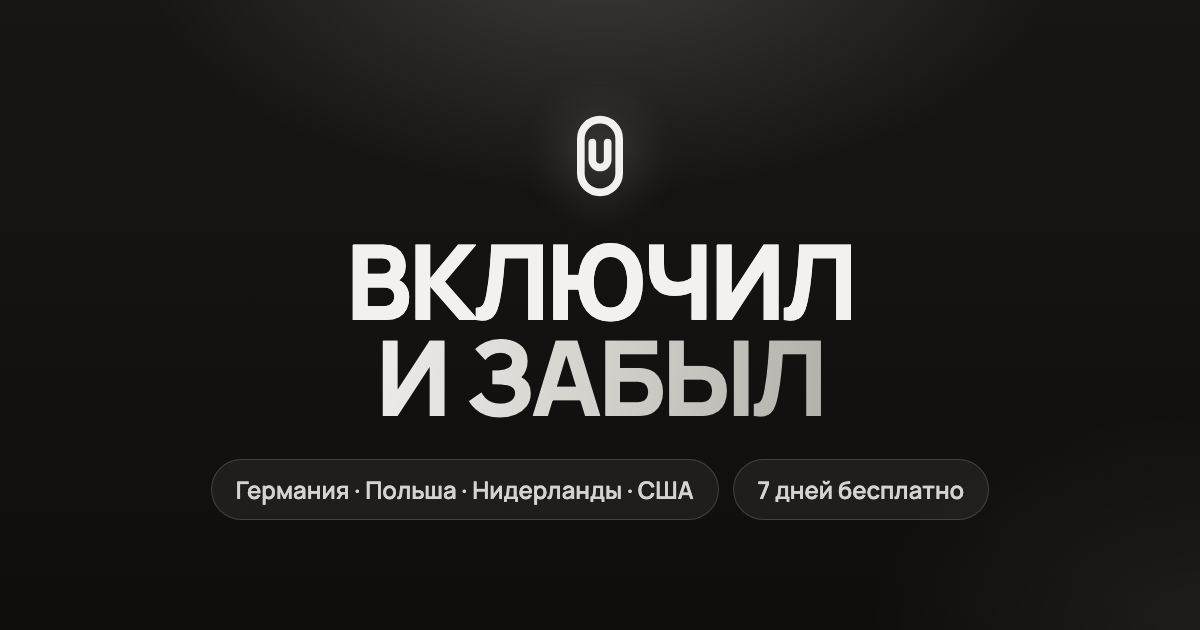
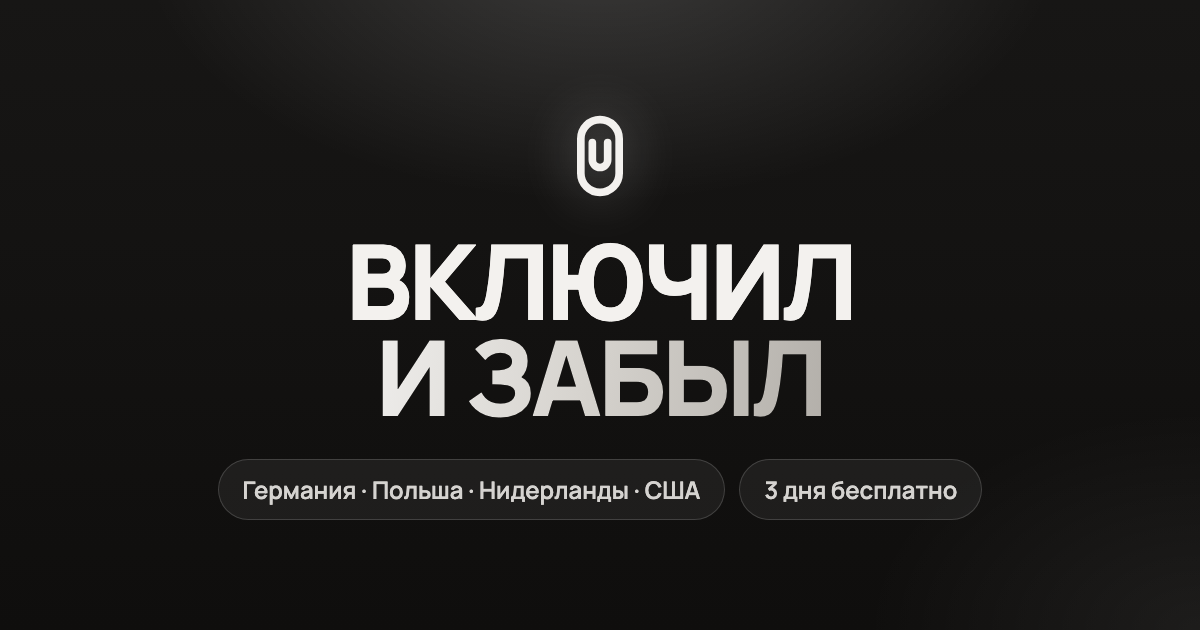
feat: пробник снова на 3 дня — в боте, зеркале, на сайте и визитке
За неделю пробника платили реже: 8 из 62 (13%) против 12 из 55 (22%) при
трёх днях, и покупали всё равно в последние дни. Длина задаётся одним
числом в тарифах бота и сайта, тексты берут её оттуда. На сайте у пробника
теперь, как и в боте, 2 устройства, а не 1.

Цифра нарисована и на картинках: баннеры зеркала «Страны на выбор» и
«Личный кабинет», визитка unlock-project.site и её превью. На баннерах
переписана только сама плашка тем же шрифтом (scripts/rewrite_banner_chip.py),
остальная картинка не тронута.

Changed region(s): [[0.185, 0.754, 0.5858, 0.8143], [0.6167, 0.754, 0.8017, 0.8143]]

diff --git a/landing/index.html b/landing/index.html
@@ -4,11 +4,11 @@
 <meta charset="utf-8">
 <meta name="viewport" content="width=device-width, initial-scale=1, viewport-fit=cover">
 <title>UnLock VPN — включил и забыл</title>
-<meta name="description" content="UnLock VPN: серверы в Германии, Польше, Нидерландах и США. Первые 7 дней бесплатно, дальше — от 149 ₽ в месяц.">
+<meta name="description" content="UnLock VPN: серверы в Германии, Польше, Нидерландах и США. Первые 3 дня бесплатно, дальше — от 149 ₽ в месяц.">
 <meta name="theme-color" content="#121110">
 <meta property="og:type" content="website">
 <meta property="og:title" content="UnLock VPN — включил и забыл">
-<meta property="og:description" content="Серверы в Германии, Польше, Нидерландах и США. Первые 7 дней бесплатно.">
+<meta property="og:description" content="Серверы в Германии, Польше, Нидерландах и США. Первые 3 дня бесплатно.">
 <meta property="og:url" content="https://unlock-project.site/">
 <meta property="og:image" content="https://unlock-project.site/og.png">
 <link rel="canonical" href="https://unlock-project.site/">
@@ -460,7 +460,7 @@ img, svg { display: block; }
 <main>
   <section class="hero" aria-labelledby="hero-title">
     <div>
-      <span class="pill eyebrow reveal" style="--i:1"><span class="eyebrow__dot" aria-hidden="true"></span>Первые 7 дней — бесплатно</span>
+      <span class="pill eyebrow reveal" style="--i:1"><span class="eyebrow__dot" aria-hidden="true"></span>Первые 3 дня — бесплатно</span>
       <h1 class="headline" id="hero-title">
         <span class="reveal" style="--i:2">Включил</span>
         <span class="reveal gradient-text" style="--i:3">и забыл</span>
@@ -500,7 +500,7 @@ img, svg { display: block; }
           <li><span>Приложение</span><b>iOS · Android · Windows · macOS</b></li>
         </ul>
       </div>
-      <span class="pill badge"><b>7 дней</b> бесплатно</span>
+      <span class="pill badge"><b>3 дня</b> бесплатно</span>
     </div>
   </section>
 

diff --git a/web/src/lib/tariffs.ts b/web/src/lib/tariffs.ts
@@ -28,13 +28,13 @@ export const TARIFFS: Record<string, Tariff> = {
     code: "trial",
     title: "Пробник",
     tier: "trial",
-    durationDays: 7,
+    durationDays: 3,
     priceRub: 0,
     cryptoAmount: "0",
     trafficGb: 10,
     trafficResetsMonthly: false,
-    deviceLimit: 1,
-    description: "Пробный доступ: 7 дней, 10 ГБ",
+    deviceLimit: 2,
+    description: "Пробный доступ: 3 дня, 10 ГБ",
     sortOrder: 0,
   },
   standard_1m: {

diff --git a/landing/og-card.html b/landing/og-card.html
@@ -59,7 +59,7 @@ h1 span {
   <h1>Включил<span>и забыл</span></h1>
   <div class="chips">
     <span class="chip">Германия · Польша · Нидерланды · США</span>
-    <span class="chip">7 дней бесплатно</span>
+    <span class="chip">3 дня бесплатно</span>
   </div>
 </div>
 </body>

diff --git a/scripts/rewrite_banner_chip.py b/scripts/rewrite_banner_chip.py
@@ -1,0 +1,159 @@
+"""Переписать надпись на плашке баннера, не трогая остальное (нужен Chrome на Mac).
+
+Цифры на баннерах зеркала (срок пробника, ГБ) нарисованы в самой картинке, а
+исходников у картинок нет. 22.09.2026 так «7 дней» вернули в «3 дня».
+
+    .venv/bin/python scripts/rewrite_banner_chip.py '{"src": "assets/mirror/banner_cabinet.png",
+        "chip": [645, 404, 912, 448], "old": "7 дней бесплатно", "new": "3 дня бесплатно",
+        "families": ["system-ui"], "weights": [650, 700], "sizes": [25.5, 26, 26.5],
+        "dys": [-4, -3, -2, -1]}'
+
+chip — область поиска текста внутри плашки (x0, y0, x1, y1). Результат —
+<имя>_new.png рядом со скриптом во временной папке; проверьте глазами и
+скопируйте на место. Для плашек зеркала подходит system-ui 650–700, ~26 px.
+
+1. Стираем старый текст внутри плашки: каждая строка плашки заполняется
+   линейной интерполяцией между её цветом слева и справа от текста — фон
+   плашки плавный, так рамка и градиент остаются нетронутыми.
+2. Подбираем шрифт/размер/сдвиг: рисуем в Chrome СТАРЫЙ текст на стёртой
+   плашке и сравниваем с оригиналом по пикселям.
+3. Тем же набором параметров рисуем новый текст.
+"""
+
+import json
+import subprocess
+import sys
+import tempfile
+from pathlib import Path
+
+from PIL import Image, ImageChops, ImageStat
+
+HERE = Path(tempfile.gettempdir()) / "rewrite_banner_chip"
+HERE.mkdir(exist_ok=True)
+CHROME = "/Applications/Google Chrome.app/Contents/MacOS/Google Chrome"
+W, H = 1200, 630
+
+
+def find_text_box(im, box, thresh=150):
+    """Рамка светлых пикселей текста внутри области плашки."""
+    x0, y0, x1, y1 = box
+    xs, ys = [], []
+    px = im.load()
+    for y in range(y0, y1):
+        for x in range(x0, x1):
+            r, g, b = px[x, y][:3]
+            if min(r, g, b) > thresh:
+                xs.append(x)
+                ys.append(y)
+    return min(xs), min(ys), max(xs) + 1, max(ys) + 1
+
+
+def clean_chip(im, text_box, pad=6):
+    """Стереть текст: интерполяция по строкам между краями вне текста."""
+    out = im.copy()
+    px = out.load()
+    tx0, ty0, tx1, ty1 = text_box
+    xl, xr = tx0 - pad, tx1 + pad
+    for y in range(ty0 - pad, ty1 + pad):
+        left = px[xl, y]
+        right = px[xr, y]
+        for x in range(xl + 1, xr):
+            t = (x - xl) / (xr - xl)
+            px[x, y] = tuple(round(left[i] * (1 - t) + right[i] * t) for i in range(3))
+    return out
+
+
+def render(cleaned_path, variants, out_png):
+    """Один скриншот: все варианты друг под другом, по 630 px каждый."""
+    blocks = []
+    for i, v in enumerate(variants):
+        blocks.append(
+            f'<div style="position:absolute;left:0;top:{i * H}px;width:{W}px;height:{H}px;'
+            f'background:url(file://{cleaned_path}) no-repeat;">'
+            f'<span style="position:absolute;left:{v["cx"]}px;top:{v["cy"]}px;'
+            f'transform:translate(-50%,-50%);white-space:nowrap;font-family:{v["family"]};'
+            f'font-weight:{v["weight"]};font-size:{v["size"]}px;letter-spacing:{v["ls"]}px;'
+            f'color:{v["color"]};-webkit-font-smoothing:antialiased;line-height:1">{v["text"]}</span></div>'
+        )
+    html = (
+        "<!doctype html><html><head><meta charset='utf-8'><style>html,body{margin:0;padding:0;"
+        f"width:{W}px;height:{H * len(variants)}px;overflow:hidden;background:#000}}</style></head>"
+        f"<body>{''.join(blocks)}</body></html>"
+    )
+    page = Path(tempfile.mkdtemp(dir=HERE)) / "page.html"
+    page.write_text(html)
+    profile = tempfile.mkdtemp(dir=HERE)
+    proc = subprocess.Popen(
+        [CHROME, "--headless=new", "--disable-gpu", "--hide-scrollbars", f"--user-data-dir={profile}",
+         "--force-device-scale-factor=1", f"--window-size={W},{H * len(variants)}",
+         "--allow-file-access-from-files", f"--screenshot={out_png}", f"file://{page}"],
+        stdout=subprocess.DEVNULL, stderr=subprocess.DEVNULL,
+    )
+    # Headless Chrome часто не выходит сам после снимка: ждём файл, потом гасим.
+    import time
+    out = Path(out_png)
+    out.unlink(missing_ok=True)
+    deadline = time.time() + 60
+    last = -1
+    while time.time() < deadline:
+        if out.exists() and out.stat().st_size > 0 and out.stat().st_size == last:
+            break
+        last = out.stat().st_size if out.exists() else -1
+        time.sleep(0.5)
+    proc.kill()
+    return Image.open(out_png).convert("RGB")
+
+
+def score(shot, i, original, box):
+    tile = shot.crop((0, i * H, W, (i + 1) * H)).crop(box)
+    diff = ImageChops.difference(tile, original.crop(box))
+    return sum(ImageStat.Stat(diff).mean) / 3
+
+
+def main():
+    spec = json.loads(sys.argv[1])
+    src = Path(spec["src"])
+    original = Image.open(src).convert("RGB")
+    text_box = find_text_box(original, spec["chip"])
+    print("text box", text_box)
+    cleaned = clean_chip(original, text_box)
+    cleaned_path = HERE / (src.stem + "_clean.png")
+    cleaned.save(cleaned_path)
+
+    cx = (text_box[0] + text_box[2]) / 2
+    cy = (text_box[1] + text_box[3]) / 2
+    # Цвет текста — средний из самых светлых пикселей исходной надписи.
+    px = original.load()
+    bright = [px[x, y] for y in range(text_box[1], text_box[3]) for x in range(text_box[0], text_box[2])
+              if min(px[x, y]) > 215]
+    avg = tuple(round(sum(c[i] for c in bright) / len(bright)) for i in range(3))
+    color = spec.get("color") or "#%02x%02x%02x" % avg
+    print("text color", color)
+    families = spec.get("families", ["-apple-system", "'Helvetica Neue'", "'SF Pro Text'"])
+    variants = []
+    for family in families:
+        for weight in spec.get("weights", (600, 700)):
+            for size in spec.get("sizes", (26, 27, 28, 29, 30)):
+                for dy in spec.get("dys", (-1, 0, 1, 2)):
+                    variants.append({"family": family, "weight": weight, "size": size, "ls": 0,
+                                     "cx": cx, "cy": cy + dy, "color": color, "text": spec["old"]})
+    score_box = (text_box[0] - 8, text_box[1] - 6, text_box[2] + 8, text_box[3] + 6)
+    # Chrome не снимает страницы выше ~16 000 px: считаем порциями по 20 вариантов.
+    scored = []
+    for start in range(0, len(variants), 20):
+        chunk = variants[start:start + 20]
+        shot = render(cleaned_path, chunk, HERE / (src.stem + f"_calib_{start}.png"))
+        scored += [(score(shot, i, original, score_box), v) for i, v in enumerate(chunk)]
+    ranked = sorted(scored, key=lambda t: t[0])
+    for s, v in ranked[:4]:
+        print(f"{s:6.2f}", v["family"], v["weight"], v["size"], "dy", v["cy"] - cy)
+    best = ranked[0][1]
+
+    final = dict(best, text=spec["new"])
+    out = render(cleaned_path, [final], HERE / (src.stem + "_new_raw.png"))
+    out.save(HERE / (src.stem + "_new.png"))
+    print("saved", HERE / (src.stem + "_new.png"))
+
+
+if __name__ == "__main__":
+    main()

diff --git a/tests/test_tariffs.py b/tests/test_tariffs.py
@@ -66,8 +66,10 @@ def test_trial_allowance_never_refills():
 
 
 @pytest.mark.unit
-def test_trial_runs_a_week():
-    assert resolve_tariff("trial").duration_days == 7
+def test_trial_runs_three_days():
+    # 22.09.2026 вернули 3 дня: за неделю пробника платили реже (13% против 22%),
+    # а покупали всё равно в последние дни.
+    assert resolve_tariff("trial").duration_days == 3
 
 
 @pytest.mark.unit
@@ -82,7 +84,7 @@ def test_day_counts_are_declined_for_russian():
     assert [plural_days(n) for n in (1, 2, 4, 5, 11, 14, 21, 22)] == [
         "1 день", "2 дня", "4 дня", "5 дней", "11 дней", "14 дней", "21 день", "22 дня",
     ]
-    assert trial_days() == "7 дней"
+    assert trial_days() == "3 дня"
 
 
 def test_the_trial_covers_a_phone_and_a_computer():

diff --git a/services/tariffs.py b/services/tariffs.py
@@ -63,7 +63,7 @@ TARIFFS: dict[str, Tariff] = {
         code="trial",
         title="Пробник",
         tier="trial",
-        duration_days=7,
+        duration_days=3,
         price_rub=0,
         crypto_amount="0",
         traffic_gb=10,
@@ -71,7 +71,7 @@ TARIFFS: dict[str, Tariff] = {
         # компьютере одновременно, и упереться в лимит на пробнике — это отказ
         # от покупки. Случай из поддержки 11.09: телефон работал, компьютер нет.
         device_limit=2,
-        description="Пробный доступ: 7 дней, 10 ГБ",
+        description="Пробный доступ: 3 дня, 10 ГБ",
         sort_order=0,
         traffic_resets_monthly=False,
     ),
